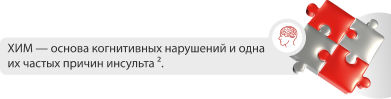
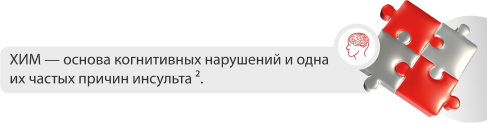
Add files via upload

diff --git a/style.css b/style.css
@@ -1929,8 +1929,7 @@ ul li img {
 }
 @media (max-width: 500px) {
     .backgroung_section1 {
-        right: -60%;
-        bottom: -39%;
+        width: 100%;
 
     }
     .intro-box {
@@ -2214,7 +2213,7 @@ ul li img {
 .pazzle {
     height: auto;
     top: 47%;
-    width: 390.59px;
+    width: 100%;
     object-fit: cover;
 }
 .pazzle2 {
